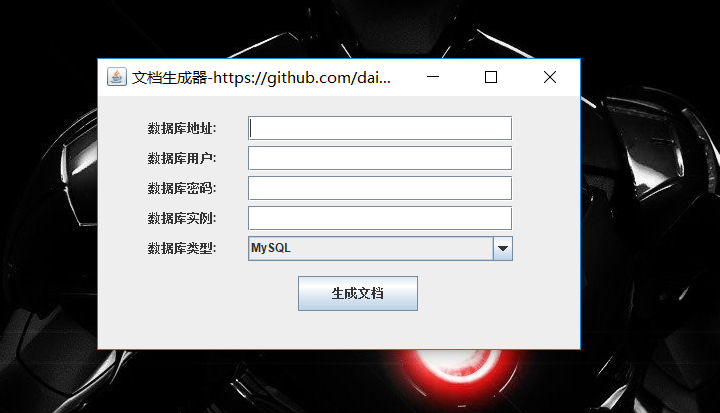
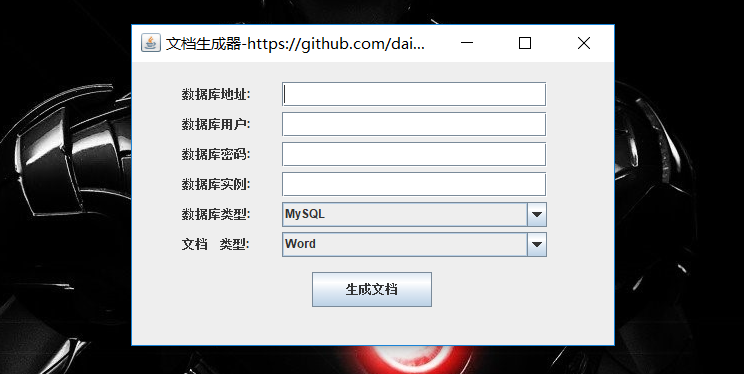
update readme

diff --git a/README.md b/README.md
@@ -2,7 +2,8 @@
 数据库文档生成器
 
 ## 介绍
-通过配置数据库连接等基本信息，自动生成数据库设计Word文档。
+通过配置数据库连接等基本信息，自动生成数据库设计文档。<br> 
+可选择Word和PDF格式。
 
 ## 使用方法
 
@@ -10,9 +11,9 @@
 
 #数据库连接信息<br> 
 spring.datasource.url=jdbc:mysql://localhost:3306/reports<br> 
-spring.datasource.username: root<br> 
-spring.datasource.password: 111111<br> 
-spring.datasource.driver-class-name: com.mysql.jdbc.Driver<br> 
+spring.datasource.username=root<br> 
+spring.datasource.password=111111<br> 
+spring.datasource.driver-class-name=com.mysql.jdbc.Driver<br> 
 
 #数据库类型<br> 
 baseType=MySQL<br> 
@@ -20,6 +21,10 @@ baseType=MySQL<br>
 #baseType=SQLite<br> 
 #baseType=SQLServer<br> 
 #baseType=PostgreSQL<br> 
+
+#文档类型
+fileType=pdf
+#fileType=word
 
 #数据库实例名<br> 
 baseName=reports
@@ -37,7 +42,8 @@ baseName=reports
 
 
 ### 桌面程序
-#### 下载mindoc.jar双击运行
+#### 下载mindoc-1.1.jar双击运行
+mindoc.jar只有Word格式，mindoc-1.1.jar有Word和PDF两种格式
 ![image](https://github.com/daiwenlong/mindoc/blob/master/images/desk.png)
 
 #### 填写数据库信息
